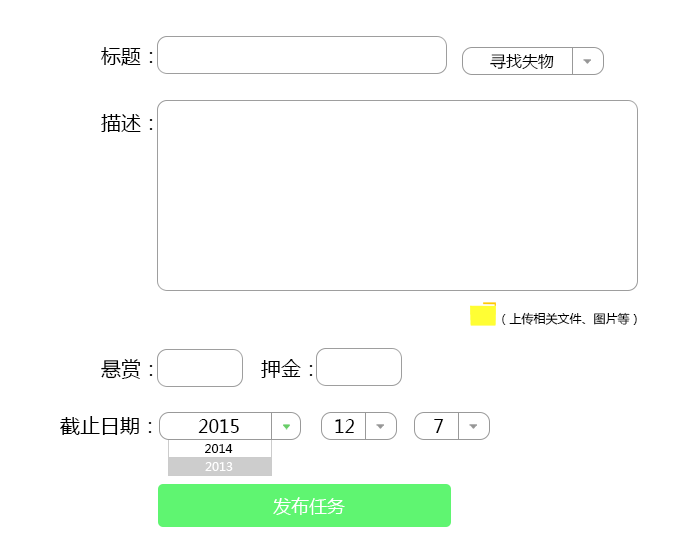
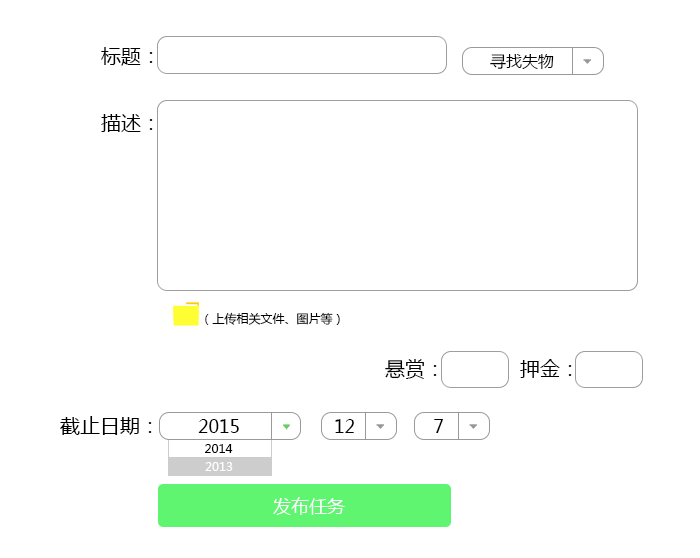
发布任务界面完成

diff --git a/MissionOffer/Login/templates/framework.html b/MissionOffer/Login/templates/framework.html
@@ -28,7 +28,7 @@
     <div id="boss4"></div>
     <div id="boss5"></div>
     <div id="boss6">
-      <a href="/offer/" onclick="dp()"><img src="/statics/frameworkFolder/boss51.png"></a>
+      <a href="#" onclick="dp()"><img src="/statics/frameworkFolder/boss51.png"></a>
     </div>
     <div id="boss7">
       <a href="/userCenter"><img src="/statics/frameworkFolder/boss52.png"></a>
@@ -58,6 +58,118 @@
       <div id="boss122">荣誉排行榜</div>
       <div id="boss123"></div>
     </div>
+    </div>
+    <div id="display"></div>
+    <div id="publish">
+      <form action="#" method="post">
+      <div id="publish_right"></div>
+      <div id="publish_input1"></div>
+      <input type="text" id="publish_top" size="25"/>
+      <select name="task" id="option">
+        <option>任务类型</option>
+        <option value="1">寻找失物</option>
+        <option value="2">食堂带饭</option>
+        <option value="3">超市购物</option>
+        <option value="4">文印中心</option>
+        <option value="5">校外任务</option>
+      </select>
+      <div id="description"></div>
+      <textarea id="dscb" name="dscription"></textarea>
+      <input type="file" name="uploadfile" id="uploadfile" value=""/>
+      <div id="money_picture"></div>
+      <input type="text" id="offer_reward" name="offer_reward">
+      <input type="text" id="cash_pledge" name="cash_pledge">
+      <select name="year" id="option_year">
+        <option value="0">年</option>
+        <option value="1">2013</option>
+        <option value="2">2014</option>
+        <option value="3">2015</option>
+      </select>
+      <select name="mouth" id="option_mouth">
+        <option value="0">月</option>
+        <option value="1">1</option>
+        <option value="2">2</option>
+        <option value="3">3</option>
+        <option value="4">4</option>
+        <option value="5">5</option>
+        <option value="6">6</option>
+        <option value="7">7</option>
+        <option value="8">8</option>
+        <option value="9">9</option>
+        <option value="10">10</option>
+        <option value="11">11</option>
+        <option value="12">12</option>
+      </select>
+      <select name="day" id="option_day">
+        <option value="0">日</option>
+        <option value="1">1</option>
+        <option value="2">2</option>
+        <option value="3">3</option>
+        <option value="4">4</option>
+        <option value="5">5</option>
+        <option value="6">6</option>
+        <option value="7">7</option>
+        <option value="8">8</option>
+        <option value="9">9</option>
+        <option value="10">10</option>
+        <option value="11">11</option>
+        <option value="12">12</option>
+        <option value="13">13</option>
+        <option value="14">14</option>
+        <option value="15">15</option>
+        <option value="16">16</option>
+        <option value="17">17</option>
+        <option value="18">18</option>
+        <option value="19">19</option>
+        <option value="20">20</option>
+        <option value="21">21</option>
+        <option value="22">22</option>
+        <option value="23">23</option>
+        <option value="24">24</option>
+        <option value="25">25</option>
+        <option value="26">26</option>
+        <option value="27">27</option>
+        <option value="28">28</option>
+        <option value="29">29</option>
+        <option value="30">30</option>
+        <option value="31">31</option>
+      </select>
+      <select name="hour" id="option_hour">
+        <option value="0">时</option>
+        <option value="1">1</option>
+        <option value="2">2</option>
+        <option value="3">3</option>
+        <option value="4">4</option>
+        <option value="5">5</option>
+        <option value="6">6</option>
+        <option value="7">7</option>
+        <option value="8">8</option>
+        <option value="9">9</option>
+        <option value="10">10</option>
+        <option value="11">11</option>
+        <option value="12">12</option>
+        <option value="13">13</option>
+        <option value="14">14</option>
+        <option value="15">15</option>
+        <option value="16">16</option>
+        <option value="17">17</option>
+        <option value="18">18</option>
+        <option value="19">19</option>
+        <option value="20">20</option>
+        <option value="21">21</option>
+        <option value="22">22</option>
+        <option value="23">23</option>
+        <option value="24">24</option>
+      </select>
+      <select name="hour" id="option_minute">
+        <option value="0">分</option>
+        <option value="1">15</option>
+        <option value="2">30</option>
+        <option value="3">45</option>
+      </select>
+      <input type="submit" id="sumit" value="发布任务">
+      </form>
+      <input type="button" id="exit" value="关闭" onclick="pd()">
     </div>
   </body>
 </html>

diff --git a/MissionOffer/statics/frameworkFolder/framework.css b/MissionOffer/statics/frameworkFolder/framework.css
@@ -302,4 +302,212 @@
         border:1px solid blue;
         display:none;
       }
+      #publish_right{
+        margin:0%;
+        padding:0%;
+        position:absolute;
+        height:399px;
+        width:106px;
+        background:url(/statics/frameworkFolder/right.png);
+        top:30px;
+        left:50px;
+      }
+      #publish_input1{
+        margin:0%;
+        padding:0%;
+        position:absolute;
+        height:38px;
+        width:290px;
+        background:url(title/statics/frameworkFolder/.png);
+        top:28px;
+        left:170px;
+      }
+      #publish_top{
+        margin:0%;
+        padding:0%;
+        position:absolute;
+        height:399px;
+        width:106px;
+        background:;
+        height:34px;
+        width:280px;
+        top:30px;
+        left:175px;
+        font-size:20px;
+        border:0px;
+        outline:none;
+      }
+      #publish_top{
+        margin:0%;
+        padding:0%;
+        position:absolute;
+        height:399px;
+        width:106px;
+        background:;
+        height:34px;
+        width:280px;
+        top:30px;
+        left:175px;
+        font-size:20px;
+        border:0px;
+        outline:none;
+      }
+      #option{
+        margin:0%;
+        padding:0%;
+        position:absolute;
+        height:28px;
+        width:100px;
+        top:38px;
+        left:480px;
+        font-weight:bold;
+        font-family:"微软雅黑";
+      }
+      #description{
+        margin:0%;
+        padding:0%;
+        position:absolute;
+        height:191px;
+        width:485px;
+        top:100px;
+        left:171px;
+        background:url(/statics/frameworkFolder/dscb.png);
+      }
+      #dscb{
+        margin:0%;
+        padding:0%;
+        position:absolute;
+        height:180px;
+        width:477px;
+        top:105px;
+        left:173px;
+        font-family:"微软雅黑";
+        font-size:20px;
+        border:0px;
+        outline:none;
+      }
+      #uploadfile{
+        margin:0%;
+        padding:0%;
+        position:absolute;
+        top:300px;
+        left:175px;
+      }
+      #money_picture{
+        margin:0%;
+        padding:0%;
+        position:absolute;
+        height:51px;
+        width:278px;
+        background:url(/statics/frameworkFolder/money.png);
+        top:350px;
+        left:385px;
+      }
+      #offer_reward{
+        margin:0%;
+        padding:0%;
+        position:absolute;
+        height:30px;
+        width:59px;
+        top:360px;
+        left:455px;
+        outline:none;
+        border:0px;
+        font-size:20px;
+        font-family:"微软雅黑";
+      }
+      #cash_pledge{
+        margin:0%;
+        padding:0%;
+        position:absolute;
+        height:30px;
+        width:59px;
+        top:360px;
+        left:589px;
+        outline:none;
+        border:0px;
+        font-size:20px;
+        font-family:"微软雅黑";
+      }
+      #option_year{
+        margin:0%;
+        padding:0%;
+        position:absolute;
+        height:28px;
+        width:100px;
+        top:402px;
+        left:165px;
+        font-weight:bold;
+        font-family:"微软雅黑";
+      }
+      #option_mouth{
+        margin:0%;
+        padding:0%;
+        position:absolute;
+        height:28px;
+        width:100px;
+        top:402px;
+        left:310px;
+        font-weight:bold;
+        font-family:"微软雅黑";
+      }
+      #option_day{
+        margin:0%;
+        padding:0%;
+        position:absolute;
+        height:28px;
+        width:100px;
+        top:402px;
+        left:450px;
+        font-weight:bold;
+        font-family:"微软雅黑";
+      }
+      #option_hour{
+        margin:0%;
+        padding:0%;
+        position:absolute;
+        height:28px;
+        width:100px;
+        top:450px;
+        left:165px;
+        font-weight:bold;
+        font-family:"微软雅黑";
+      }
+      #option_minute{
+        margin:0%;
+        padding:0%;
+        position:absolute;
+        height:28px;
+        width:100px;
+        top:450px;
+        left:310px;
+        font-weight:bold;
+        font-family:"微软雅黑";
+      }
+      #sumit{
+        margin:0%;
+        padding:0%;
+        position:absolute;
+        height:43px;
+        width:294px;
+        top:500px;
+        left:200px;
+        font-size:150%;
+        color:white;
+        background-color:#5FF571;
+        border:0px;
+      }
+      #exit{
+        margin:0%;
+        padding:0%;
+        position:absolute;
+        height:30px;
+        width:100px;
+        top:520px;
+        left:580px;
+        font-size:;
+        color:white;
+        background-color:#5FF571;
+        border:0px;
+      }
 </style>

diff --git a/MissionOffer/statics/frameworkFolder/framework.js b/MissionOffer/statics/frameworkFolder/framework.js
@@ -86,3 +86,7 @@
       document.getElementById("display").style.display="block";
       document.getElementById("publish").style.display="block";
     }
+    function pd(){
+      document.getElementById("display").style.display="none";
+      document.getElementById("publish").style.display="none";
+    }
